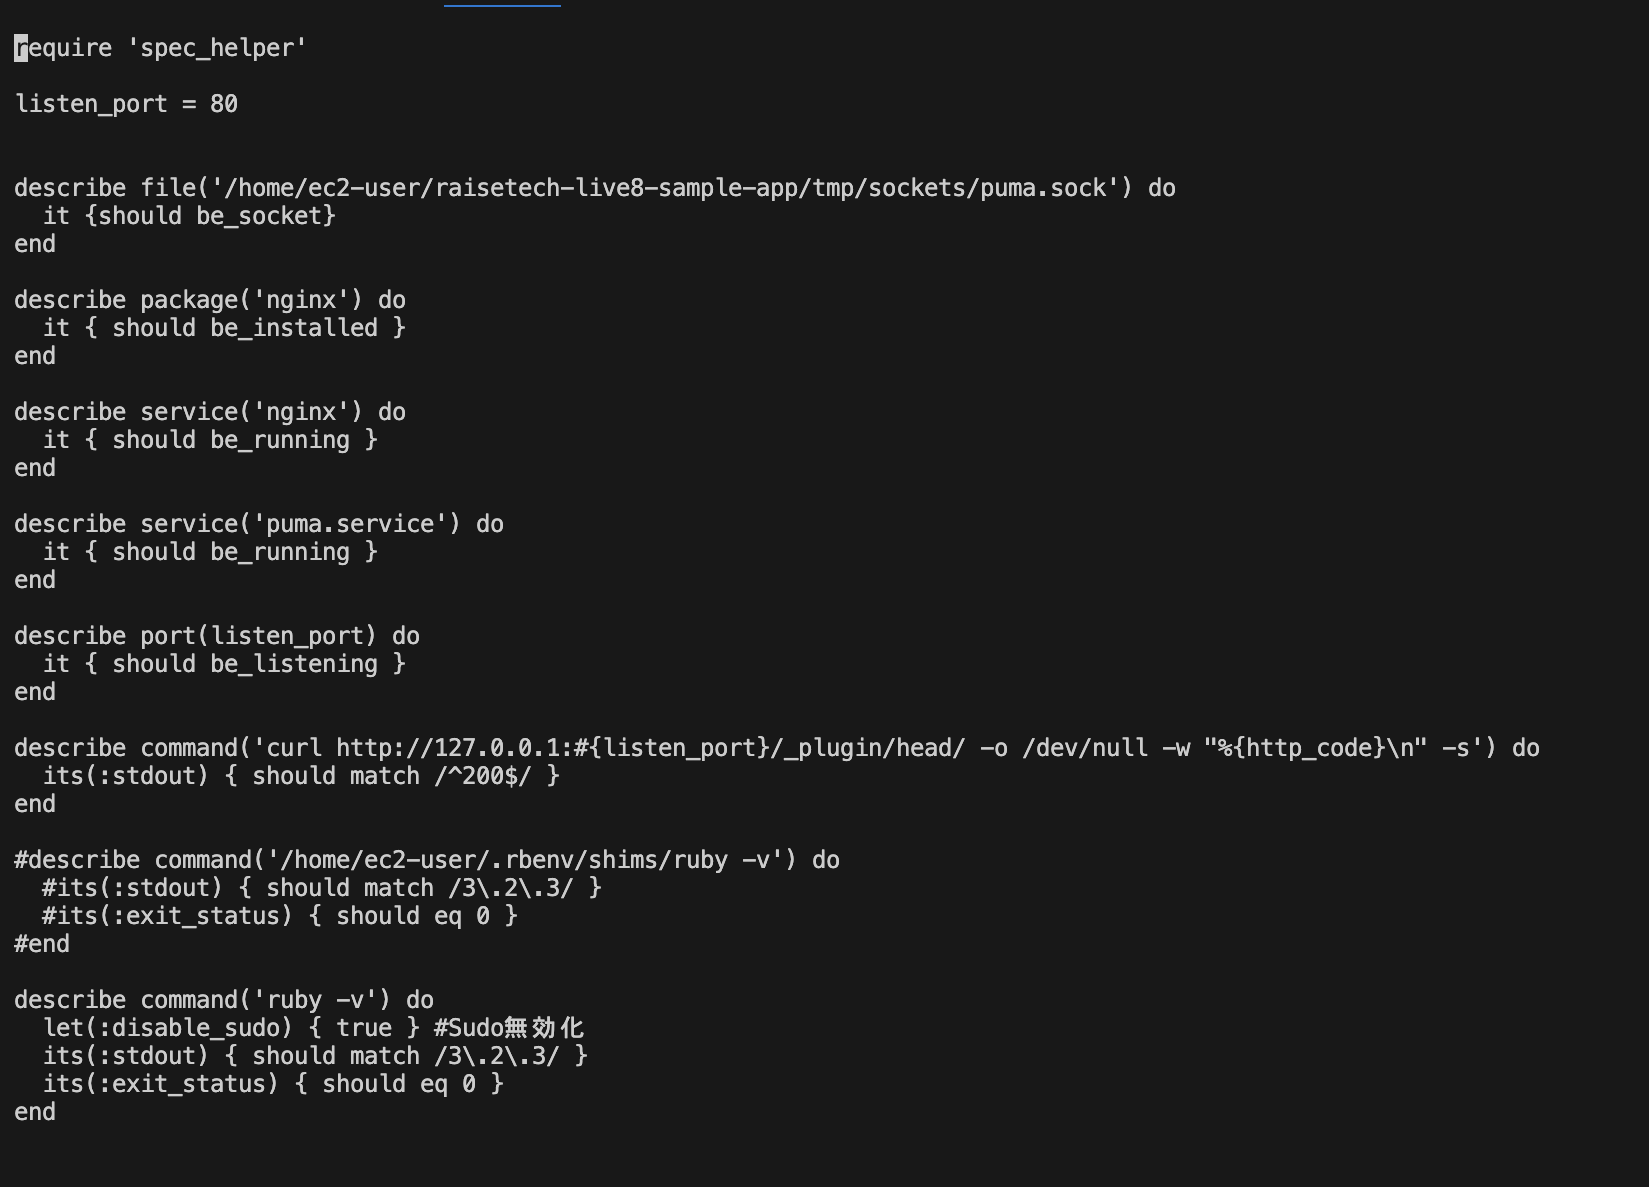
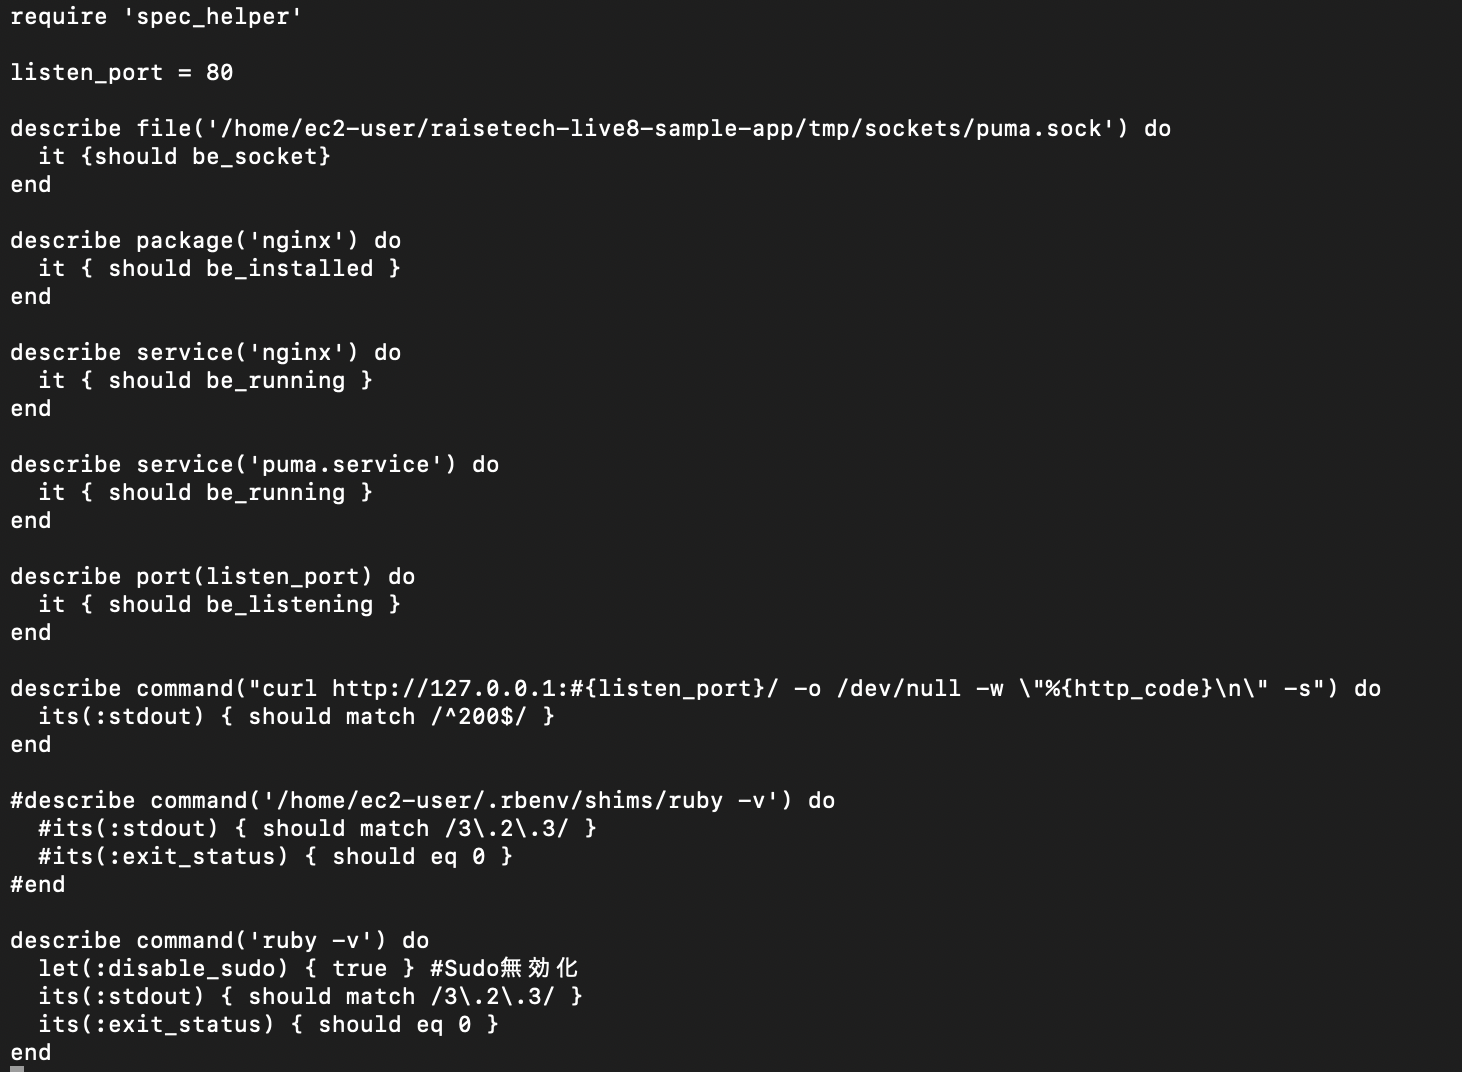
マークダウン・image11の修正

diff --git a/lecture11/lecture11.md b/lecture11/lecture11.md
@@ -20,8 +20,6 @@ serverspec/
           │       └── sample_spec.rb
           │ 
           └── spec_helper.rb
-
-
 ```
 
 ### spec_helper.rb
@@ -36,7 +34,7 @@ serverspec/
 
 ### .ssh/config
 
-![test](image11/ssh:config.png)
+![.ssh](image11/ssh:config.png)
 
 
 ### テスト実行
@@ -47,7 +45,7 @@ TARGET_HOST=raisetech11 bundle exec rake spec
 
 ※ TARGET_HOST=(.ssh/config内に書いたhost名)を起動コマンドに含めると環境変数として代入され、.ssh/configに記載されたSSH設定のホスト名を探し、一致した場合SSH接続が実行される。
 
-![rakespec](image11/sshrakespec..png)
+![rakespec](image11/rakespec.png)
 [テスト実行結果](test.txt)
 
 ※ MACからSSHで実行したい場合は、
